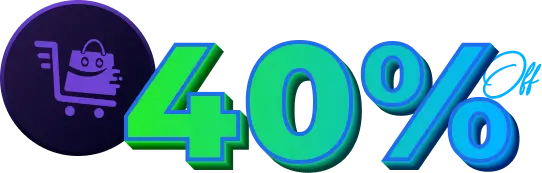
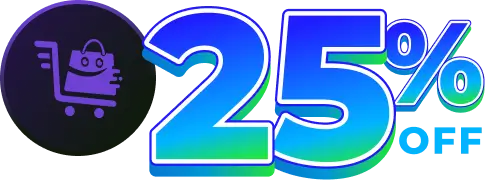
3.1.26

diff --git a/cart-lift/admin/class-special-occasion-banner.php b/cart-lift/admin/class-special-occasion-banner.php
@@ -119,23 +119,22 @@ class Rex_CartLift_Special_Occasion_Banner
             $countdown = $this->rex_get_halloween_countdown();
         ?>
 
-            <!-- Name: WordPress Anniversary Notification Banner -->
+            <!-- Name: Christmas Notification Banner -->
             <div class="rex-feed-tb__notification cartlift-banner" id="rex_cl_deal_notification">
                 <div class="banner-overflow">
                     <div class="rex-notification-counter">
                         <div class="rex-notification-counter__container">
                             <div class="rex-notification-counter__content">
-
-                                <figure class="rex-notification-counter__biggest-sale">
-                                    <img src="<?php echo esc_url(plugin_dir_url(__FILE__) . '/images/banner-images/biggest-sale-text.webp'); ?>" alt="<?php esc_attr_e('Biggest sale of the year!', 'cart-lift'); ?>" class="rex-notification-counter__img" >
+                                <figure class="rex-notification-counter__figure-logo">
+                                    <img src="<?php echo esc_url(plugin_dir_url(__FILE__) . '/images/banner-images/christmas-logo.webp'); ?>" alt="<?php esc_attr_e('Christmas special offer logo', 'cart-lift'); ?>" class="rex-notification-counter__img" >
                                 </figure>
 
-                                <figure class="rex-notification-counter__figure-logo">
-                                    <img src="<?php echo esc_url(plugin_dir_url(__FILE__) . '/images/banner-images/black-friday-logo.webp'); ?>" alt="<?php esc_attr_e('Black Friday special offer logo', 'cart-lift'); ?>" class="rex-notification-counter__img" >
+                                <figure class="rex-notification-counter__biggest-sale">
+                                    <img src="<?php echo esc_url(plugin_dir_url(__FILE__) . '/images/banner-images/year-end-text.webp'); ?>" alt="<?php esc_attr_e('Biggest sale of the year!', 'cart-lift'); ?>" class="rex-notification-counter__img" >
                                 </figure>
 
                                 <figure class="rex-notification-counter__figure-percentage">
-                                    <img src="<?php echo esc_url(plugin_dir_url(__FILE__) . '/images/banner-images/discount-percent.webp'); ?>" alt="<?php esc_attr_e('Black Friday special discount', 'cart-lift'); ?>" class="rex-notification-counter__img" >
+                                    <img src="<?php echo esc_url(plugin_dir_url(__FILE__) . '/images/banner-images/discount-percent.webp'); ?>" alt="<?php esc_attr_e('Christmas special discount', 'cart-lift'); ?>" class="rex-notification-counter__img" >
                                 </figure>
 
                                 <div id="rex-halloween-countdown" class="rex-notification-counter__countdown" aria-live="polite">
@@ -158,13 +157,13 @@ class Rex_CartLift_Special_Occasion_Banner
 
                                 <div class="rex-notification-counter__btn-area">
                                     <a 
-                                        href="<?php echo esc_url( 'https://rextheme.com/cart-lift/?utm_source=plugin-CTA&utm_medium=cartlift-free-plugin&utm_campaign=bfcm-2024#pricing' ); ?>"
+                                        href="<?php echo esc_url('https://rextheme.com/cart-lift/?utm_source=plugin-notification-bar-CTA&utm_medium=free-plugin-notification-bar&utm_campaign=christmas-sale2024#pricing' ); ?>"
                                         class="rex-notification-counter__btn"
                                         target="_blank"
                                     >
 
                                         <span class="screen-reader-text">
-                                            <?php esc_html_e('Click to view Black Friday sale products', 'cart-lift'); ?>
+                                            <?php esc_html_e('Click to view Christmas sale products', 'cart-lift'); ?>
                                         </span>
 
                                         <?php esc_html_e('Get Discount Now', 'cart-lift'); ?> 
@@ -302,7 +301,7 @@ class Rex_CartLift_Special_Occasion_Banner
                 background-color: #05041E;
                 width: calc(100% - 20px);
                 margin: 50px 0 20px;
-                background-image: url(<?php echo "{$plugin_dir_url}images/banner-images/black-friday-banner-bg.webp"; ?>);
+                background-image: url(<?php echo "{$plugin_dir_url}images/banner-images/christmas-banner-bg.webp"; ?>);
                 background-position: center;
                 background-repeat: no-repeat;
                 background-size: cover;
@@ -317,7 +316,7 @@ class Rex_CartLift_Special_Occasion_Banner
             .cartlift-banner .rex-notification-counter {
                 position: relative;
                 z-index: 1111;
-                padding: 12px 0;
+                padding: 8px 0;
             }
 
             .cartlift-banner .rex-notification-counter figure {
@@ -328,7 +327,7 @@ class Rex_CartLift_Special_Occasion_Banner
                 position: relative;
                 width: 100%;
                 max-height: 110px;
-                max-width: 1310px;
+                max-width: 1430px;
                 margin: 0 auto;
                 padding: 0px 15px;
             }
@@ -342,12 +341,10 @@ class Rex_CartLift_Special_Occasion_Banner
                 max-width: 188px;
             }
             .cartlift-banner .rex-notification-counter__figure-logo {
-                max-width: 226px;
+                max-width: 287px;
             }
             .cartlift-banner .rex-notification-counter__figure-percentage {
-                max-width: 270px;
-                position: relative;
-                top: -5px;
+                max-width: 243px;
             }
             .cartlift-banner .rex-notification-counter__img {
                 width: 100%;
@@ -491,11 +488,19 @@ class Rex_CartLift_Special_Occasion_Banner
             
 
             @media only screen and (max-width: 1599px) {
+                .cartlift-banner .rex-notification-counter__container {
+                    max-width: 1170px;
+                }
+
                 .cartlift-banner .rex-notification-counter__figure-logo {
                     max-width: 200px;
                 }
                 .cartlift-banner .rex-notification-counter__figure-percentage {
                     max-width: 190px;
+                }
+
+                .cartlift-banner .rex-notification-counter__biggest-sale {
+                    max-width: 120px;
                 }
 
                 .cartlift-banner .rex-notification-counter__btn {
@@ -517,7 +522,7 @@ class Rex_CartLift_Special_Occasion_Banner
                 }
 
                 .cartlift-banner .rex-notification-counter {
-                    padding: 12px 0;
+                    padding: 7px 0;
                 }
                 .cartlift-banner .rex-notification-counter__biggest-sale {
                     max-width: 128px;
@@ -552,6 +557,19 @@ class Rex_CartLift_Special_Occasion_Banner
                 .cartlift-banner .rex-notification-counter__container {
                     max-width: 820px;
                 }
+
+                .rex-feed-tb__notification.cartlift-banner .rex-feed-tb__cross-top {
+                    top: -7px;
+                    right: -7px;
+                    width: 22px;
+                    height: 22px;
+                }
+
+                .rex-feed-tb__notification.cartlift-banner .rex-feed-tb__cross-top svg {
+                    width: 10px;
+                    height: 10px;
+                }
+
                 .cartlift-banner .rex-notification-counter__biggest-sale {
                     max-width: 110px;
                 }

diff --git a/cart-lift/cart-lift.php b/cart-lift/cart-lift.php
@@ -15,7 +15,7 @@
  * Plugin Name:       Cart Lift - Abandoned Cart Recovery for WooCommerce and EDD
  * Plugin URI:        https://rextheme.com/cart-lift
  * Description:       Win back your abandoned cart customers with automated email recovery campaign.
- * Version:           3.1.25
+ * Version:           3.1.26
  * Author:            RexTheme
  * Author URI:        https://rextheme.com/cart-lift
  * License:           GPL-2.0+
@@ -44,7 +44,7 @@ if ( ! defined( 'WPINC' ) ) {
  * Rename this for your plugin and update it as you release new versions.
  */
 
-define('CART_LIFT_VERSION', '3.1.25' );
+define('CART_LIFT_VERSION', '3.1.26' );
 define('CART_LIFT_FILE', __FILE__ );
 define('CART_LIFT_BASE', plugin_basename( CART_LIFT_FILE ) );
 define('CART_LIFT_DIR', plugin_dir_path(CART_LIFT_FILE));

diff --git a/cart-lift/includes/class-cart-lift.php b/cart-lift/includes/class-cart-lift.php
@@ -156,9 +156,9 @@ class Cart_Lift
         $plugin_cron_job = new Cart_Lift_Cron();
         $cl_db_action    = new Cart_Lift_DB();
         $special_banner = new Rex_CartLift_Special_Occasion_Banner(
-            'blackfriday_deal_2024',
-		   	'2024-11-11 00:00:00',
-		   	'2024-12-05 23:59:59'
+            'christmas_deal_2024',
+		   	'2024-12-17 00:00:00',
+		   	'2025-01-03 23:59:59'
         ); // Date format: YYYY-MM-DD HH:MM:SS
 
         if ( !defined( 'CART_LIFT_PRO_VERSION' ) && 'no' === get_option( 'rex_cl_hide_sales_notification_bar', 'no' ) ) {
